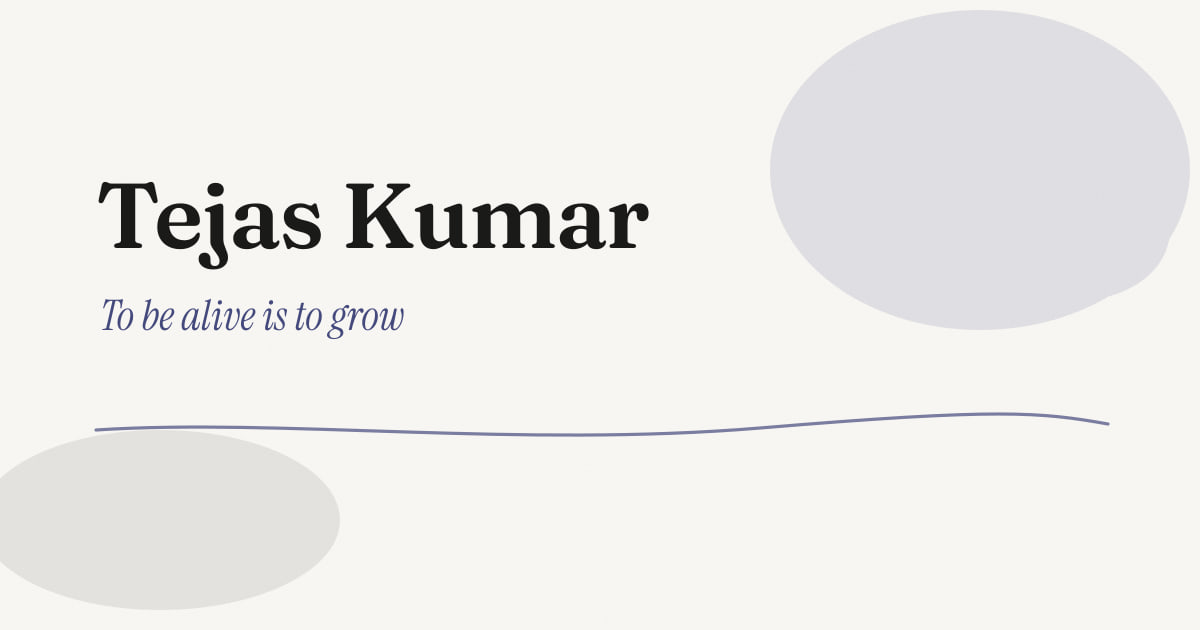
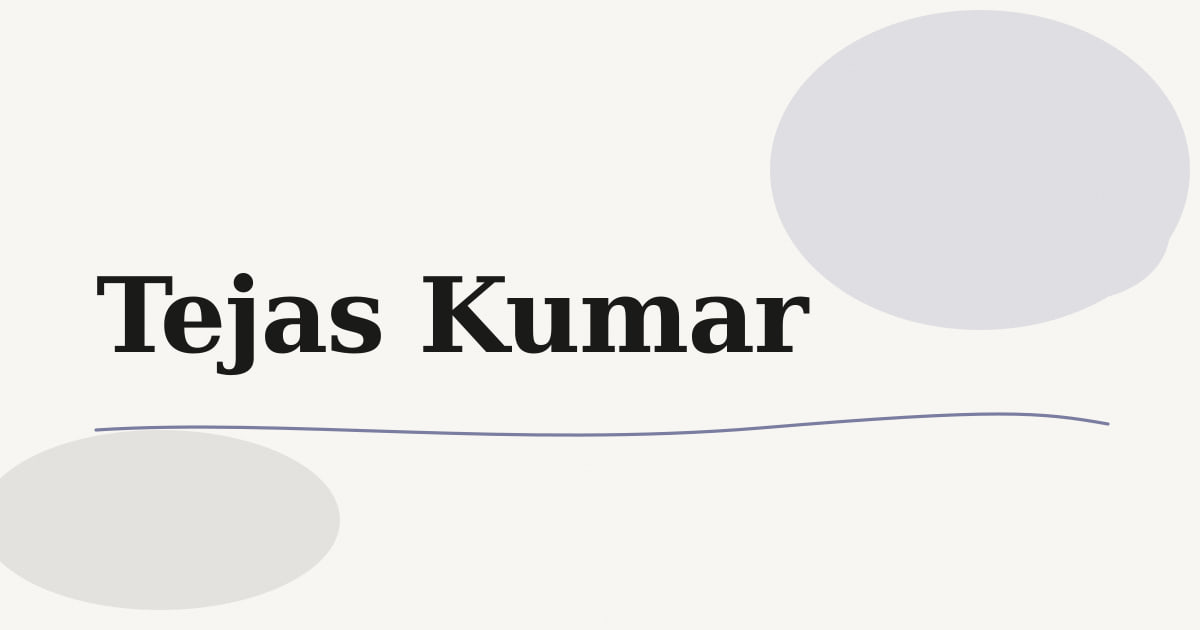
Replace the story-lane placeholders and drop the tagline from the share card
Each photograph now has one plain line drawn from what is in the frame,
in place of the TODO paragraphs. The social card is just the name, and
the unused tagline is gone from the config and README.

Claude-Session: https://claude.ai/code/session_01279BiDWniEUT8c7bKNkQ4M

Changed region(s): [[0.0617, 0.2714, 0.6783, 0.6032]]

diff --git a/src/site.config.ts b/src/site.config.ts
@@ -19,8 +19,6 @@ export const site = {
   // Canonical URL. No trailing slash. Astro's `base` is derived from this.
   url: 'https://tejas.website',
 
-  tagline: 'To be alive is to grow',
-
   description:
     'Tejas Kumar — writing on life, agents, and the work of growing. A story lane, essays, and a way to write back.',
 

diff --git a/README.md b/README.md
@@ -32,11 +32,12 @@ npm run dev      # http://localhost:4321
 
 ## Where to edit your bio and links
 
-**`src/site.config.ts`.** That is the one file. It holds your name, tagline,
+**`src/site.config.ts`.** That is the one file. It holds your name,
 meta description, email, social links, navigation, the home-page introduction,
-the "Currently" line, the three themes under the introduction, the story-lane
-photograph pinned beside it (`intro.portrait`), and the contact-page topics.
-Nothing personal is hard-coded anywhere else.
+and the contact note. Nothing personal is hard-coded anywhere else.
+
+Your photo on the home page is `src/assets/portrait.jpg`; replace that file to
+change it.
 
 An essay's thumbnail on the home page and the writing stream comes from the
 optional `cover:` field in its frontmatter.
@@ -46,12 +47,12 @@ Two things live outside it, both in `public/`:
 - `public/og.jpg` — the 1200×630 image used when a link to the site is shared.
 - `public/favicon.svg` and `public/apple-touch-icon.png` — the site mark.
 
-The site is Tejas Kumar's. Name, tagline, email, GitHub, X, and LinkedIn
+The site is Tejas Kumar's. Name, email, GitHub, X, and LinkedIn
 live in `src/site.config.ts`. The writing stream is two essays first
 published on X — *Everything We Call "Alive" Is Wrong* and *The Agentic
 Economy is about to 100x everything* — with their original diagrams,
 and Conway's Game of Life as a looping clip. The social card
-(`public/og.jpg`) is the name and tagline on paper.
+(`public/og.jpg`) is the name on paper.
 
 The story-lane photographs are real; some captions and dates are still
 guesses, marked `TODO:` in `src/content/story/`.

diff --git a/src/content/story/03-engine-system.md b/src/content/story/03-engine-system.md
@@ -1,5 +1,4 @@
 ---
-# TODO: placeholder words. The drawing and the date are from the page itself.
 title: Engine system
 date: 2016-06-20
 image: ../../assets/stories/air-city-engine.jpg
@@ -8,10 +7,4 @@ meta: Working drawing · pencil, colour pencil
 order: 3
 ---
 
-The note in the top corner explains the entire machine in one breath. The
-engine turns the outer rim; the blades set into the rim make lift; the lift
-carries the city; and the rollers, plus the inertia of the main structure,
-keep the whole thing from tipping over.
-
-I have since learned several good reasons this does not fly. I have not yet
-made a drawing I believe in as completely.
+The engine meant to keep Air City up: a bladed rim that turns and makes lift.

diff --git a/src/content/story/01-first-medal.md b/src/content/story/01-first-medal.md
@@ -1,6 +1,4 @@
 ---
-# The photograph is yours. The words below are a guess made from what is in
-# the frame — TODO: replace them, and fix the date.
 title: The first thing I won
 date: 2011-11-20
 image: ../../assets/stories/first-medal.jpg
@@ -9,9 +7,4 @@ meta: Karate · first medal
 order: 1
 ---
 
-Gold, and a ribbon long enough to reach my knees. I remember the weight of it
-better than I remember the bout.
-
-Behind me the next fight had already started. Nobody warns you that the hall
-does not stop for your turn — it just moves on to the next square of mat, and
-you are left holding the thing you came for.
+My first karate medal. Gold, on a ribbon in the colours of the flag.

diff --git a/src/content/story/02-air-city.md b/src/content/story/02-air-city.md
@@ -1,5 +1,4 @@
 ---
-# TODO: the date and the drawing are real; the words are a placeholder.
 title: Air City
 date: 2016-06-20
 image: ../../assets/stories/air-city-cover.jpg
@@ -8,8 +7,4 @@ meta: Cover page · ballpoint on A4
 order: 2
 ---
 
-A city that floats. Two pens, because the red ran out halfway through the
-title and I was not going to start again.
-
-The cover came first. It usually does — you name the thing, you put a date in
-the corner, and then you are committed to figuring out how it works.
+The cover of Air City, a project about a city that floats. Drawn and signed in June 2016.

diff --git a/src/content/story/04-the-desk.md b/src/content/story/04-the-desk.md
@@ -1,5 +1,4 @@
 ---
-# TODO: placeholder words, and a guessed date — set the real one.
 title: The desk, winter
 date: 2021-01-10
 image: ../../assets/stories/the-desk.jpg
@@ -8,8 +7,4 @@ meta: Home · the cold months
 order: 4
 ---
 
-The blanket is not a joke. The room got cold and the work did not stop, so
-the two arrangements had to coexist.
-
-Somebody taped *Time is money!!* to the wardrobe at exactly eye level, where
-it could not be avoided. It worked more often than I would like to admit.
+My desk in winter. Blanket on, laptop open, and a sign on the wardrobe that says *Time is money!!*
